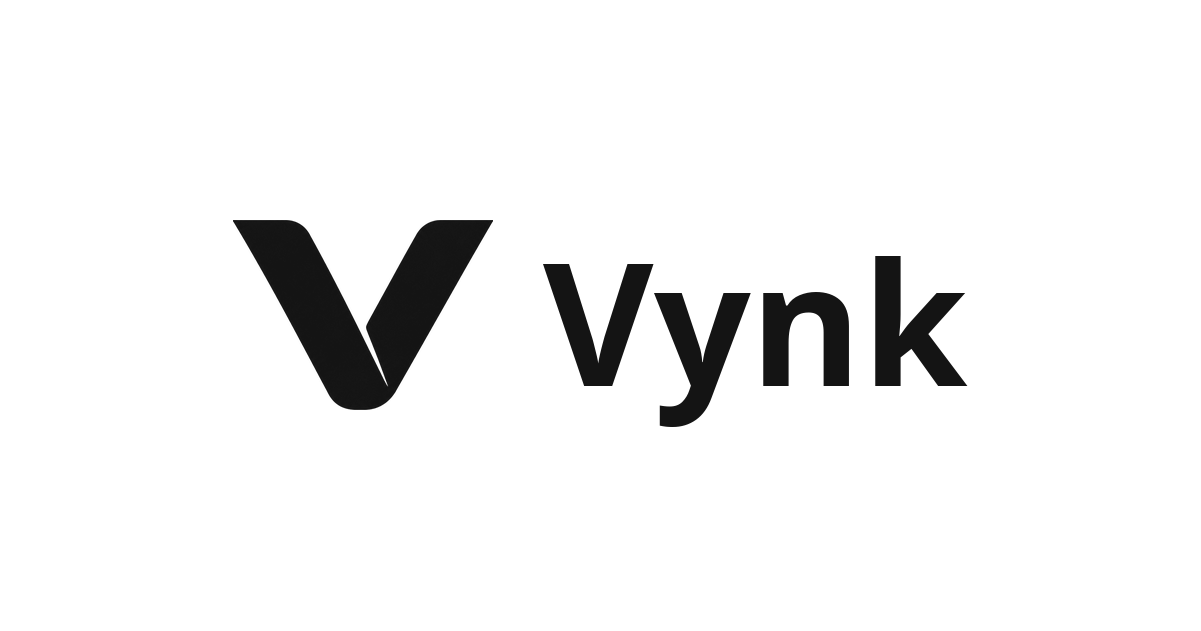
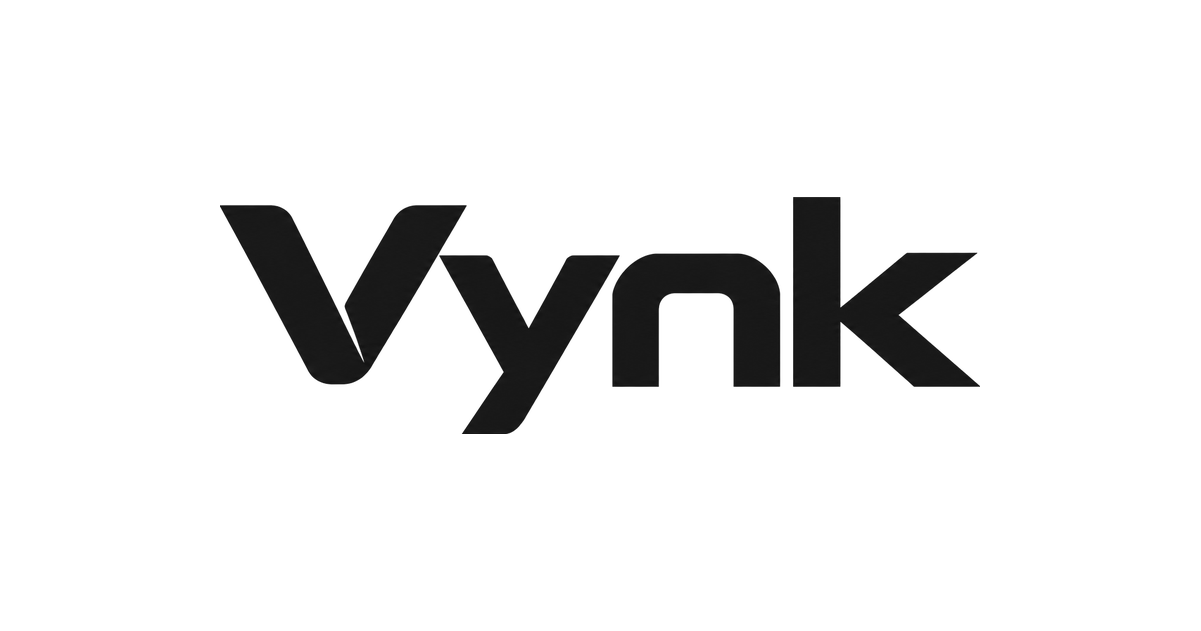
Use supplied Vynk wordmark; replace remaining Plane artwork
- Trace wordmark to SVG for PlaneLockup components, OG image and email logos
- Replace gradient logo, admin takeoff icons with Vynk V mark
- Remove unreferenced Plane images
- Keep source artwork in brand/

Changed region(s): [[0.2157, 0.3011, 0.8318, 0.6926], [0.1848, 0.3011, 0.2465, 0.4216]]

diff --git a/apps/admin/components/common/plane-lockup.tsx b/apps/admin/components/common/plane-lockup.tsx
@@ -6,7 +6,7 @@
 
 import * as React from "react";
 
-// Vynk logo lockup: mark + wordmark (component keeps its upstream name to avoid churn at call sites).
+// Vynk logo lockup: Vynk wordmark (component keeps its upstream name to avoid churn at call sites).
 
 type PlaneLockupProps = {
   width?: string | number;
@@ -15,12 +15,12 @@ type PlaneLockupProps = {
   color?: string;
 };
 
-export function PlaneLockup({ width = "195", height = "53", className, color = "currentColor" }: PlaneLockupProps) {
+export function PlaneLockup({ width = "170", height = "53", className, color = "currentColor" }: PlaneLockupProps) {
   return (
     <svg
       width={width}
       height={height}
-      viewBox="0 0 195 53"
+      viewBox="0 0 170 53"
       fill={color}
       xmlns="http://www.w3.org/2000/svg"
       className={className}

diff --git a/packages/blocks/src/icons/brand/plane-lockup.tsx b/packages/blocks/src/icons/brand/plane-lockup.tsx
@@ -8,13 +8,13 @@ import * as React from "react";
 
 export type PlaneLockupProps = React.ComponentPropsWithoutRef<"svg">;
 
-// Vynk logo lockup: mark + wordmark (component keeps its upstream name to avoid churn at call sites).
-export function PlaneLockup({ width = "195", height = "53", className, color = "currentColor" }: PlaneLockupProps) {
+// Vynk logo lockup: Vynk wordmark (component keeps its upstream name to avoid churn at call sites).
+export function PlaneLockup({ width = "170", height = "53", className, color = "currentColor" }: PlaneLockupProps) {
   return (
     <svg
       width={width}
       height={height}
-      viewBox="0 0 195 53"
+      viewBox="0 0 170 53"
       fill={color}
       xmlns="http://www.w3.org/2000/svg"
       className={className}

diff --git a/apps/web/components/instance/not-ready-view.tsx b/apps/web/components/instance/not-ready-view.tsx
@@ -32,7 +32,7 @@ export function InstanceNotReady() {
         {/* Main content */}
         <div className="flex h-full w-full flex-col items-center px-8 pt-6 pb-10">
           <div className="sticky top-0 flex w-full shrink-0 items-center justify-between gap-6">
-            <PlaneLockup height={20} width={74} className="text-primary" />
+            <PlaneLockup height={20} width={64} className="text-primary" />
           </div>
           <div className="flex h-full w-full flex-col items-center justify-center gap-7">
             <div className="flex flex-col items-center gap-11">

diff --git a/apps/web/components/auth-screens/header.tsx b/apps/web/components/auth-screens/header.tsx
@@ -71,7 +71,7 @@ export function AuthHeaderBase(props: TAuthHeaderBase) {
       <PageHead title={pageTitle + " - Vynk"} />
       <div className="sticky top-0 flex w-full flex-shrink-0 items-center justify-between gap-6">
         <Link href="/">
-          <PlaneLockup height={20} width={74} className="text-primary" />
+          <PlaneLockup height={20} width={64} className="text-primary" />
         </Link>
         {additionalAction}
       </div>

diff --git a/apps/web/components/onboarding/header.tsx b/apps/web/components/onboarding/header.tsx
@@ -84,7 +84,7 @@ export const OnboardingHeader = observer(function OnboardingHeader(props: Onboar
               <ChevronLeftOutline className="size-6 text-placeholder" />
             </button>
           )}
-          <PlaneLockup height={20} width={74} className="text-primary" />
+          <PlaneLockup height={20} width={64} className="text-primary" />
         </div>
         <SwitchAccountDropdown fullName={userName} />
       </div>

diff --git a/apps/admin/app/(all)/(home)/auth-header.tsx b/apps/admin/app/(all)/(home)/auth-header.tsx
@@ -11,7 +11,7 @@ export function AuthHeader() {
   return (
     <div className="sticky top-0 flex w-full flex-shrink-0 items-center justify-between gap-6">
       <Link href="/">
-        <PlaneLockup height={20} width={74} className="text-primary" />
+        <PlaneLockup height={20} width={64} className="text-primary" />
       </Link>
     </div>
   );

diff --git a/apps/space/components/views/header.tsx b/apps/space/components/views/header.tsx
@@ -12,7 +12,7 @@ export function AuthHeader() {
   return (
     <div className="sticky top-0 flex w-full flex-shrink-0 items-center justify-between gap-6">
       <Link to="/">
-        <PlaneLockup height={20} width={74} className="text-primary" />
+        <PlaneLockup height={20} width={64} className="text-primary" />
       </Link>
     </div>
   );
